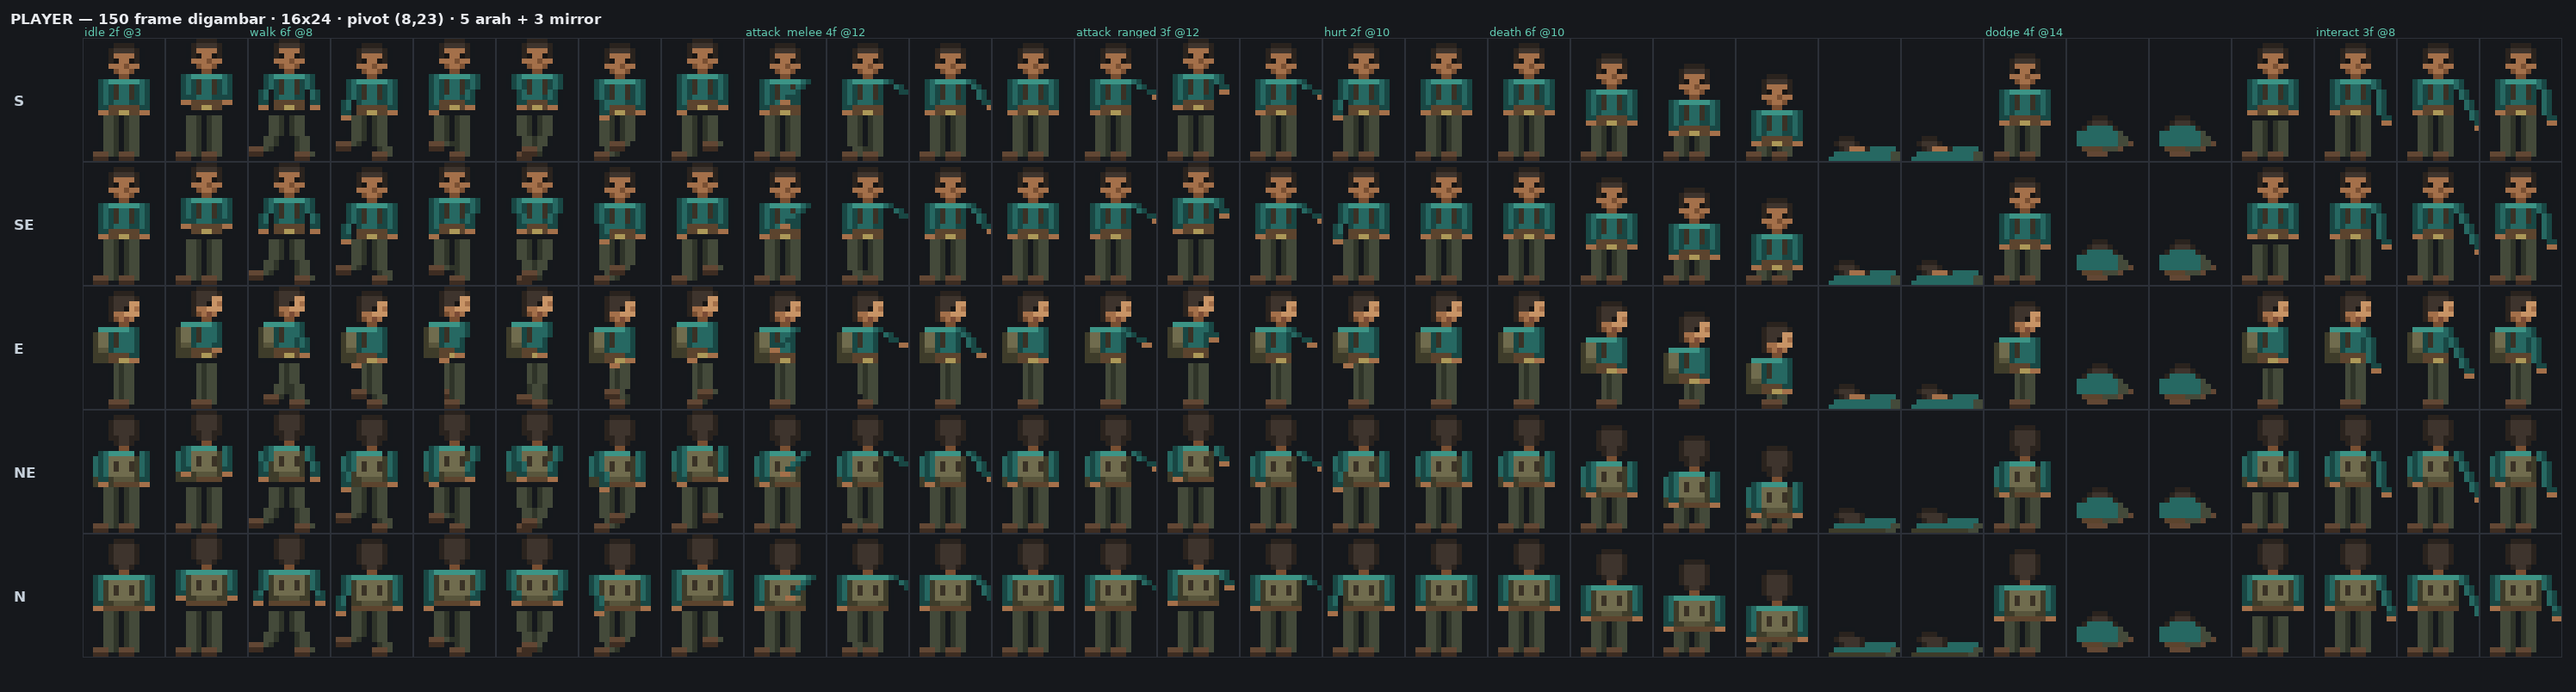
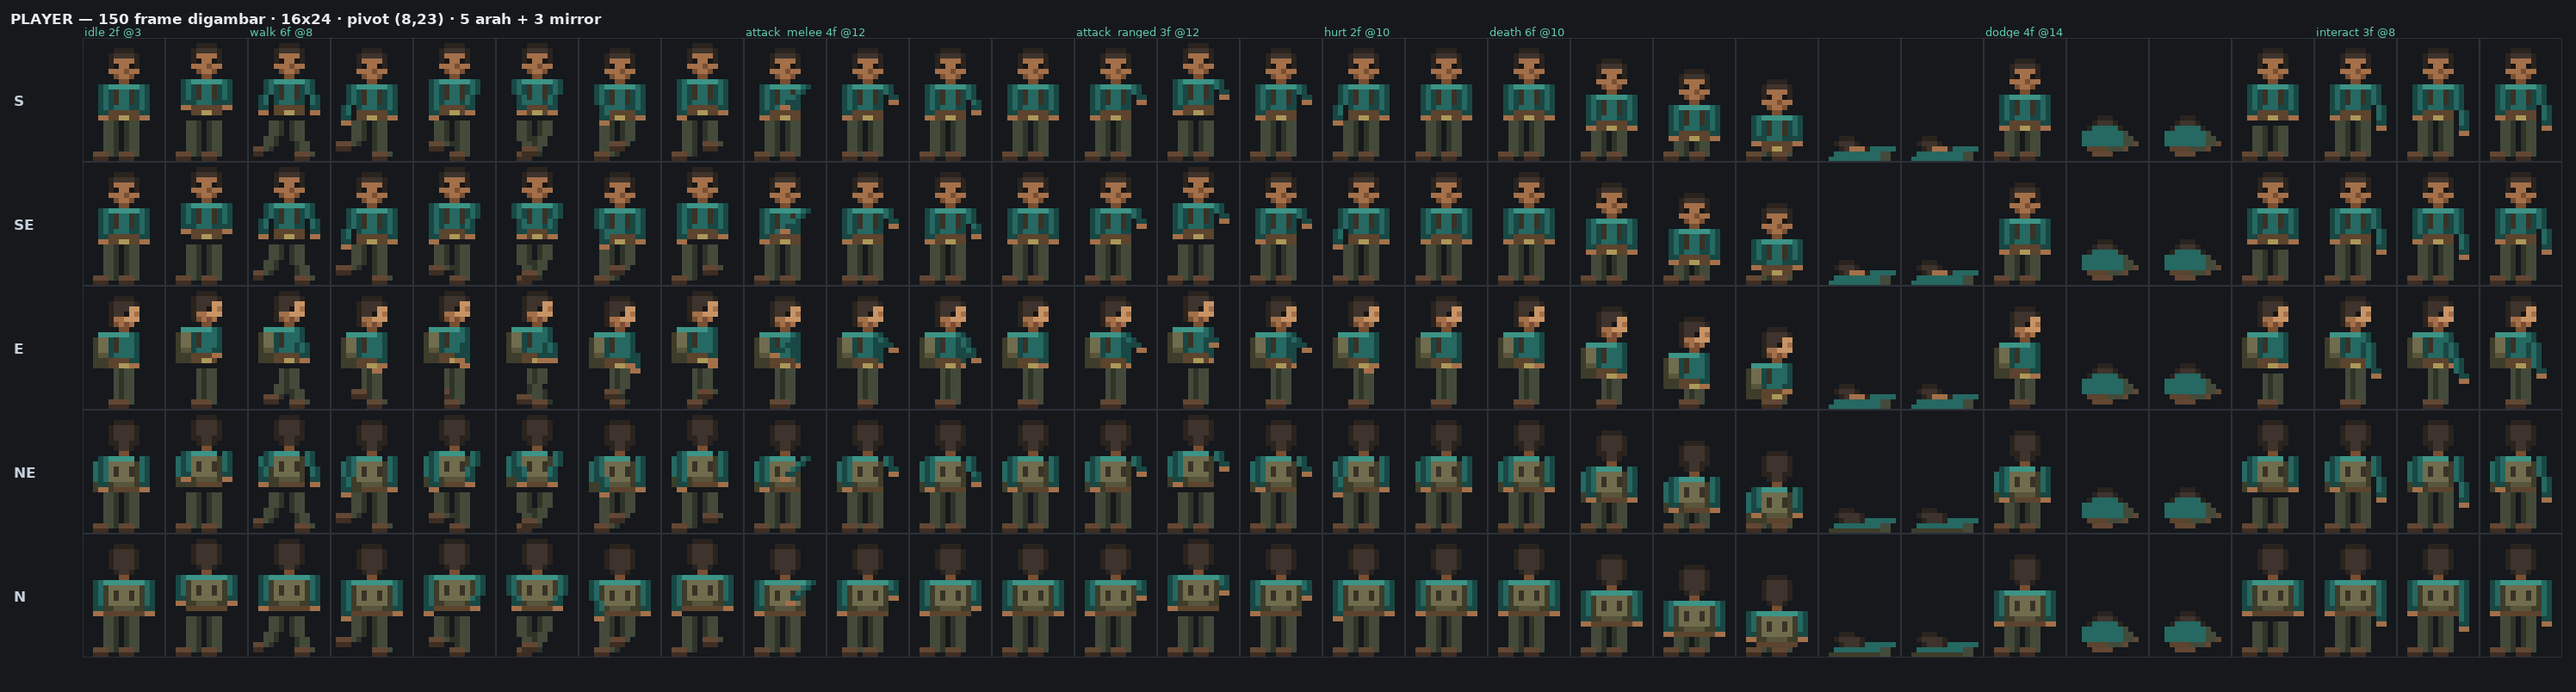
Validasi atlas pemain otomatis + dokumentasi set final v1

diff --git a/tools/make_player_sprites.py b/tools/make_player_sprites.py
@@ -165,8 +165,8 @@ PRONE = {
         "....AAA.........",   # 19 rambut
         "...AaaaA........",   # 20
         "....AasssAjjjjj.",   # 21 wajah + punggung
-        "...jjjjjjjjjjjpp",   # 22 jaket + pinggul
-        "..jjjjjjjjjjjjpp",   # 23 badan di tanah
+        "...jjjjjjjjjpp..",   # 22 jaket + pinggul
+        "..jjjjjjjjjjpp..",   # 23 badan di tanah
     ],
     "n": [
         "................", "................", "................", "................",
@@ -177,8 +177,8 @@ PRONE = {
         "....AAA.........",
         "...AaaaaA.......",
         "....AaaaAjjjjjj.",
-        "...jjjjjjjjjjjpp",
-        "..NNNNNNNNNNNpp.",
+        "...jjjjjjjjjpp..",
+        "..NNNNNNNNNNpp..",
     ],
 }
 
@@ -188,14 +188,14 @@ TUCK = [
     "................", "................", "................", "................",
     "................", "................", "................", "................",
     "................", "................", "................",
-    ".....AAA........",   # 15 kepala menunduk
-    "....AaaaA.......",
-    "...AjjjjjA......",   # 17 punggung membulat
-    "..jjjjjjjjp.....",
-    "..jjjjjjjjpp....",
-    "..jjjjjjjjppb...",
-    "...wwwwpppb.....",   # 21 kaki terlipat
-    "....bbbb........",
+    "......AAA.......",   # 15 kepala menunduk
+    ".....AaaaA......",
+    "....AjjjjjA.....",   # 17 punggung membulat
+    "...jjjjjjjjp....",
+    "...jjjjjjjjpp...",
+    "...jjjjjjjjppb..",
+    "....wwwwpppb....",   # 21 kaki terlipat
+    ".....bbbb.......",
     "................",
 ]
 
@@ -239,7 +239,7 @@ def leg(mat, x_hip, y_top, dx, lift, w=3, toe=0, inner=1):
             xc = x_hip + dx * (0.35 + 0.65 * t)
         for k in range(w):
             edge_in = (inner > 0 and k == w - 1) or (inner < 0 and k == 0)
-            put(mat, int(round(xc)) + k, y, "P" if edge_in else "p")
+            put(mat, min(max(int(round(xc)) + k, 1), 14), y, "P" if edge_in else "p")
 
     bx = int(round(x_hip + dx))
     for y in range(ankle_y, foot_y + 1):
@@ -247,14 +247,15 @@ def leg(mat, x_hip, y_top, dx, lift, w=3, toe=0, inner=1):
         for k in range(w - 1):
             put(mat, bx - 1 + k, y, ch)
         if toe:
-            put(mat, bx - 1 + (w - 1) if toe > 0 else bx - 2, y, ch)
+            tx = bx - 1 + (w - 1) if toe > 0 else bx - 2
+            put(mat, min(max(tx, 1), 14), y, ch)
 
 
 def arm(mat, shoulder, dx, dy, ext=0, w=2, length=6, back=False, inner=1, tone="j"):
     """Lengan 2 px: lengan jaket + tangan 1 px. inner = sisi menghadap badan."""
     sx, sy = shoulder
-    hx = sx + dx + ext
-    hy = sy + dy + length
+    hx = min(max(sx + dx + ext, 2), 12)      # jangan keluar kanvas: outline butuh 1 px
+    hy = min(max(sy + dy + length, 6), 20)
     for y in range(sy, hy):
         t = (y - sy) / max(1, hy - sy)
         xc = int(round(sx + (hx - sx) * t))
@@ -392,11 +393,11 @@ def pose_for(anim, f):
 # ------------------------------------------------------------------ arah ----
 
 def shoulders(d):
-    return {"s": ((3, 8), (12, 8)),
-            "se": ((3, 8), (12, 8)),
-            "e": ((5, 8), (5, 8)),
-            "ne": ((3, 8), (12, 8)),
-            "n": ((2, 8), (13, 8))}[d]
+    return {"s": ((3, 9), (11, 9)),
+            "se": ((3, 9), (11, 9)),
+            "e": ((9, 9), (9, 9)),
+            "ne": ((3, 9), (11, 9)),
+            "n": ((2, 9), (12, 9))}[d]
 
 
 def hips(d):
@@ -416,8 +417,8 @@ def build(d, anim, f):
         stamp(mat, TUCK, 0)
         return render(shade(mat))
 
-    yb = 1 + p["bob"] + p["crouch"]
-    lt = 15 + p["crouch"]
+    yb = 2 + p["bob"] + p["crouch"]
+    lt = 16 + p["crouch"]
 
     hx_l, hx_r = hips(d)
 
@@ -430,18 +431,18 @@ def build(d, anim, f):
 
     sh_l, sh_r = shoulders(d)
     if d in ("e", "ne", "n"):
-        arm(mat, (sh_l[0], sh_l[1] + yb - 1), p["armL"][0], p["armL"][1], back=True, inner=1)
+        arm(mat, (sh_l[0], sh_l[1] + yb - 2), p["armL"][0], p["armL"][1], back=True, inner=1)
 
     stamp(mat, BASE[d], yb)
 
     if d == "e":
-        arm(mat, (9, 8 + yb - 1), p["armR"][0], p["armR"][1], ext=p["ext"], inner=1)
+        arm(mat, (9, 9 + yb - 2), p["armR"][0], p["armR"][1], ext=p["ext"], inner=1)
     elif d == "n":
-        arm(mat, (2, 8 + yb - 1), p["armL"][0], p["armL"][1], inner=-1)
-        arm(mat, (12, 8 + yb - 1), p["armR"][0], p["armR"][1], ext=p["ext"], inner=1)
+        arm(mat, (2, 9 + yb - 2), p["armL"][0], p["armL"][1], inner=-1)
+        arm(mat, (12, 9 + yb - 2), p["armR"][0], p["armR"][1], ext=p["ext"], inner=1)
     else:
-        arm(mat, (3, 8 + yb - 1), p["armL"][0], p["armL"][1], inner=-1)
-        arm(mat, (11, 8 + yb - 1), p["armR"][0], p["armR"][1], ext=p["ext"], inner=1)
+        arm(mat, (3, 9 + yb - 2), p["armL"][0], p["armL"][1], inner=-1)
+        arm(mat, (11, 9 + yb - 2), p["armR"][0], p["armR"][1], ext=p["ext"], inner=1)
 
     return render(shade(mat))
 
@@ -471,6 +472,35 @@ def build_atlas():
     return atlas
 
 
+def validate(atlas):
+    """Checklist §17.12/§17.3 yang bisa diperiksa mesin, bukan selera."""
+    cells = sum(a[1] for a in ANIMS) * len(DIRS5)
+    col = 0
+    bad_edges, bad_top, empty = [], [], []
+    for (name, count, fps) in ANIMS:
+        for r, d in enumerate(DIRS5):
+            for i in range(count):
+                cell = atlas.crop(((col + i) * W, r * H, (col + i) * W + W, r * H + H))
+                px = cell.load()
+                filled = [(x, y) for y in range(H) for x in range(W) if px[x, y][3] > 0]
+                if not filled:
+                    empty.append(f"{name}/{d}/{i}")
+                content = [(x, y) for (x, y) in filled if px[x, y][:3] != OUTLINE[:3]]
+                if any(x in (0, W - 1) for x, _ in content):
+                    bad_edges.append(f"{name}/{d}/{i}")
+                if any(y == 0 for _, y in content):
+                    bad_top.append(f"{name}/{d}/{i}")
+        col += count
+
+    print(f"  sel diperiksa      : {cells}")
+    print(f"  sel kosong         : {len(empty)}")
+    print(f"  isi menyentuh tepi : {len(bad_edges)}")
+    print(f"  isi di baris 0     : {len(bad_top)}")
+    ok = not (empty or bad_edges or bad_top)
+    print(f"  HASIL              : {'LULUS' if ok else 'GAGAL'}")
+    return ok
+
+
 def main():
     root = os.path.dirname(os.path.dirname(os.path.abspath(__file__)))
     atlas = build_atlas()
@@ -478,6 +508,7 @@ def main():
     os.makedirs(os.path.dirname(out), exist_ok=True)
     atlas.save(out)
     print(f"atlas {atlas.width}x{atlas.height} -> {out}")
+    validate(atlas)
 
     # zoom inspeksi: idle + walk S dan E
     zoom = Image.new("RGBA", (8 * 16 * 4 + 40, 24 * 16 + 20), (26, 28, 32, 255))

diff --git a/GDD.md b/GDD.md
@@ -1241,15 +1241,21 @@ Pemain sudah punya set lengkap: **150 frame digambar** (30 × 5 arah), atlas `48
 | Simetri | **wajib** — tidak ada tas selempang / tambalan satu sisi | Detail asimetris membatalkan baris mirror, biaya naik ±60% (§17.3). |
 | Palet | **26 warna**, 3 langkah per material | Batas §17.1: 32 global; tanpa anti-aliasing, tanpa gradien halus. |
 
-**Hasil uji keterbacaan (dicek di zoom 20×, bukan selera):**
+**Hasil uji keterbacaan.** Dua bagian: yang bisa diperiksa mesin (dijalankan otomatis setiap generate) dan yang harus dinilai mata.
 
 ```text
-□ Siluet terbaca tanpa warna (teal jadi abu-abu)?        → YA, bahu vs pinggang berbeda
-□ Mata terbaca terpisah di wajah 6 px?                  → YA (2 px jarak)
-□ Arah hadap terbaca dari siluet saja (E vs N)?         → YA (hidung + tas di punggung)
-□ Dua kaki terpisah, tidak jadi satu balok?             → YA (celah 1 px + selout)
-□ Tas terbaca sebagai tas, bukan bongkahan?             → YA di N/NE/E; hanya tali di S/SE
-□ Ada piksel yang menyentuh tepi sel (memotong siluet)? → TIDAK
+Otomatis (tools/make_player_sprites.py -> validate()):
+  sel diperiksa      : 150
+  sel kosong         : 0
+  isi menyentuh tepi : 0        (outline boleh, isi tidak)
+  isi di baris 0     : 0        (ruang untuk topi/aksesori kepala)
+
+Manual (zoom 12x-20x):
+  Siluet terbaca tanpa warna (teal -> abu-abu)?   -> YA, bahu vs pinggang berbeda
+  Mata terbaca terpisah di wajah 6 px?           -> YA (2 px jarak antar mata)
+  Arah hadap terbaca dari siluet saja?           -> YA (hidung di E, tas di N)
+  Dua kaki terpisah, tidak jadi satu balok?      -> YA (celah 1 px + selout)
+  Tas terbaca sebagai tas, bukan bongkahan?      -> YA di N/NE/E; hanya tali di S/SE
 ```
 
 **Yang belum ada di v1 — jangan dianggap selesai:**

diff --git a/game/README.md b/game/README.md
@@ -38,6 +38,17 @@ Dua aturan baru di `tools/lint_gdscript.py`:
 1. `in (A, B)` → error (bukan GDScript).
 2. `:=` yang menyentuh variabel untyped → error "tidak bisa menginfer tipe Variant".
 
+## Set sprite pemain (v1, final pass pertama)
+
+Greybox sekarang memakai atlas pemain sungguhan, bukan placeholder: `game/assets/sprites/player.png` (480×120, 30 kolom × 5 baris), dibaca oleh `SpriteFactory.player_frames()`.
+
+- 150 frame digambar; 3 arah sisanya (`SW`, `W`, `NW`) dibuat lewat `flip_h`
+- Regenerasi: `python3 tools/make_player_sprites.py` (sekaligus menjalankan validasi 150 sel)
+- Lembar review: `docs/art/player-character-sheet.png` dan `docs/art/player-sheet-final.png`
+- Walk cycle: `docs/art/player-walk-preview.gif`
+
+Zombie masih memakai placeholder `assets/generated/walker.png` — itu disengaja, karena set zombie baru masuk setelah gaya pemain dikunci.
+
 ## Cara menjalankan
 
 1. Godot **4.7.2** (GL Compatibility), buka folder `game/` → *Import* → pilih `project.godot`.
